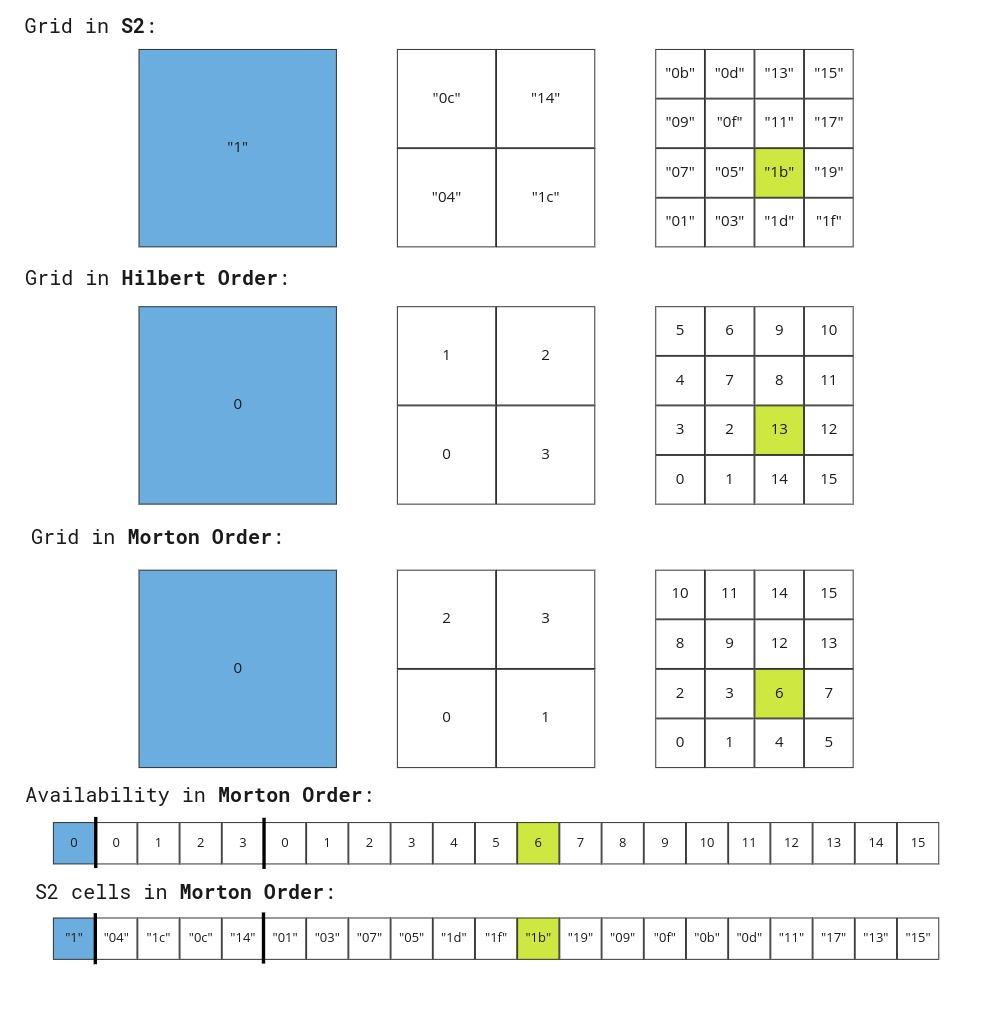
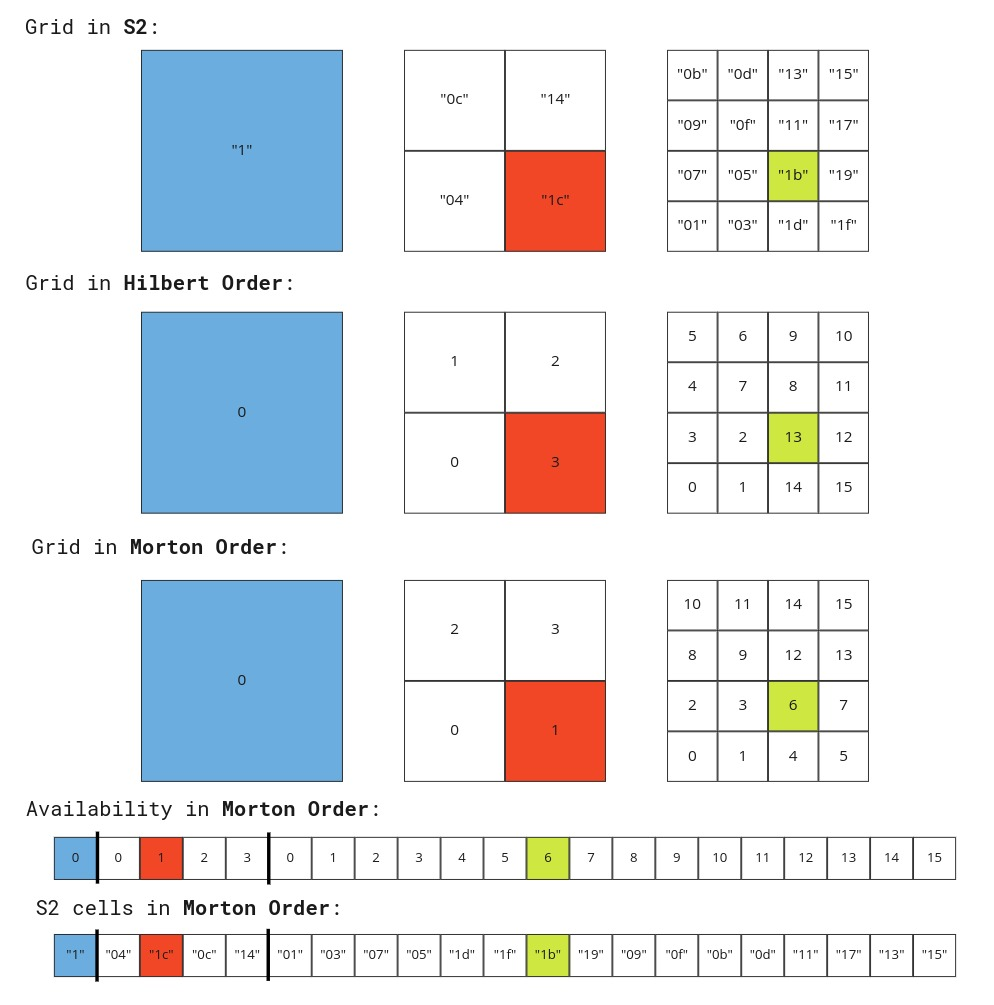
Adds updated availability example

diff --git a/extensions/3DTILES_bounding_volume_S2/0.0.0/README.md b/extensions/3DTILES_bounding_volume_S2/0.0.0/README.md
@@ -1,3 +1,4 @@
+<!-- omit in toc -->
 # 3DTILES_bounding_volume_S2
 
 <!-- omit in toc -->
@@ -25,15 +26,16 @@ This extension is required, meaning it must be placed in both the `extensionsUse
 <!-- omit in toc -->
 ## Contents
 
-- [3DTILES_bounding_volume_S2](#3dtiles_bounding_volume_s2)
-  - [Overview](#overview)
-  - [Hierarchy](#hierarchy)
-  - [Cell IDs](#cell-ids)
-  - [Tokens](#tokens)
-  - [Bounding Volume](#bounding-volume)
-  - [Implicit Subdivision](#implicit-subdivision)
-  - [Property Reference](#property-reference)
-  - [JSON Schema](#json-schema)
+- [Overview](#overview)
+- [Hierarchy](#hierarchy)
+- [Cell IDs](#cell-ids)
+- [Tokens](#tokens)
+- [Bounding Volume](#bounding-volume)
+- [Implicit Subdivision](#implicit-subdivision)
+  - [Availability](#availability)
+- [Property Reference](#property-reference)
+- [JSON Schema](#json-schema)
+- [Implementation Examples](#implementation-examples)
 
 ## Overview
 
@@ -65,8 +67,6 @@ The S2 library uses a modified Hilbert curve to provide a one dimensional orderi
 | S2 Curve on Earth cube |  S2 Curve on WGS84 ellipsoid |
 |:-:|:-:|
 | ![Math](figures/plane.png)  | ![Math](figures/ellipsoid.png)  |
-
-Since actual geographic datasets use geodetic coordinates, this extension uses WGS84 geodetic coordinates.
 
 ## Cell IDs
 
@@ -110,7 +110,9 @@ For the cell IDs in the example above, the tokens are:
 
 ## Bounding Volume
 
-An S2 cell describes 4 positions on the surface of the WGS84 ellipsoid. The `minimumHeight` and `maximumHeight`, provided in meters, describe the minimum and maximum heights above (or below) each corner position of the cell respectively. A tile's [`transform`](https://github.com/CesiumGS/3d-tiles/tree/master/specification#tile-transforms) property will be ignored when this extension is used for describing a tile's `boundingVolume`.
+An S2 cell describes 4 positions on the surface of the WGS84 ellipsoid. The `minimumHeight` and `maximumHeight`, provided in meters, describe the minimum and maximum heights above (or below) each corner position of the cell respectively. A tile's [`transform`](https://github.com/CesiumGS/3d-tiles/tree/master/specification#tile-transforms) property will be ignored when this extension is used for describing a tile's `boundingVolume`. Tiles using this extension must maintain [spatial coherence](../../../specification/README.md#bounding-volume-spatial-coherence).
+
+> **Implementation Note**: When mapping the sphere to the cube, S2 provides three projection methods: linear, quadtratic and tangential. This extension assumes an implementation uses the quadtratic projection, since it is reasonably accurate and efficient.
 
 ![Volume](figure/../figures/volume.jpg)
 
@@ -130,6 +132,14 @@ An S2 cell describes 4 positions on the surface of the WGS84 ellipsoid. The `min
 }
 ```
 
+The following example illustrates usage of `3DTILES_bounding_volume_S2`:
+
+```json
+{
+  
+}
+```
+
 ## Implicit Subdivision
 
 When used with [`3DTILES_implicit_tiling`](https://github.com/CesiumGS/3d-tiles/tree/3d-tiles-next/extensions/3DTILES_implicit_tiling/0.0.0), a `QUADTREE` subdivision scheme will follow the rules for subdivision as defined by the S2 cell hierarchy. When an `OCTREE` subdivision scheme is used, the split in the vertical dimension occurs at the midpoint of the `minimumHeight` and `maximumHeight` of the parent tile.
@@ -140,7 +150,7 @@ When used with [`3DTILES_implicit_tiling`](https://github.com/CesiumGS/3d-tiles/
 
 ### Availability
 
-While S2 uses the Hilbert curve for indexing, when using this extension with `3DTILES_implicit_tiling`, the availability bitstreams must be indexed in Morton order. The following diagram illustrates 
+When using this extension with `3DTILES_implicit_tiling`, the availability bitstreams must be indexed in Morton order, as illustrated by the following diagram:
 
 ![Availability](figures/availability.jpg)
 
@@ -362,3 +372,11 @@ Application-specific data.
 ## JSON Schema
 
 The JSON schema for this extension can be found [here](schema/boundingVolume.3DTILES_bounding_volume_S2.schema.json).
+
+## Implementation Examples
+
+_This section is non-normative_
+
+- [S2Geometry Reference C++ Implementation](https://github.com/google/s2geometry/tree/master/src/s2)
+- [S2Geometry Reference Java Implementation](https://github.com/google/s2-geometry-library-java/tree/master/src/com/google/common/geometry)
+- [S2Cell.js in CesiumJS](https://github.com/CesiumGS/cesium/blob/master/Source/Core/S2Cell.js)
